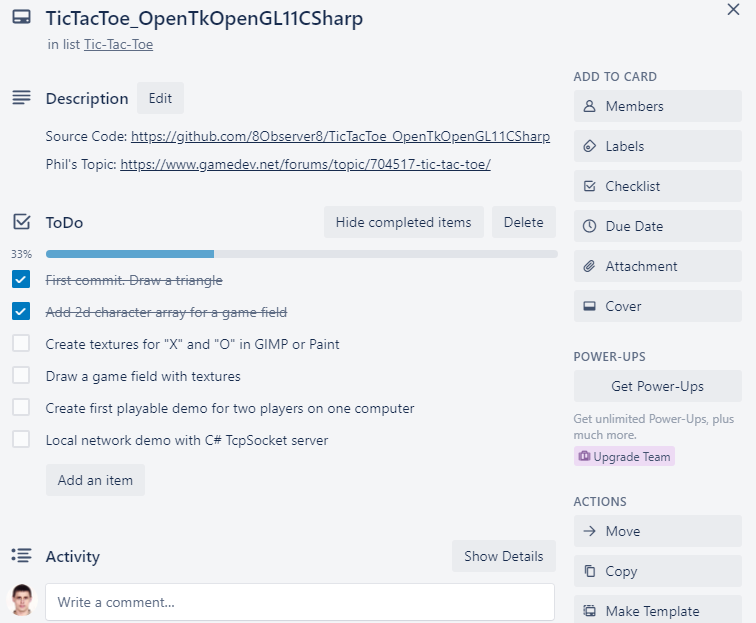
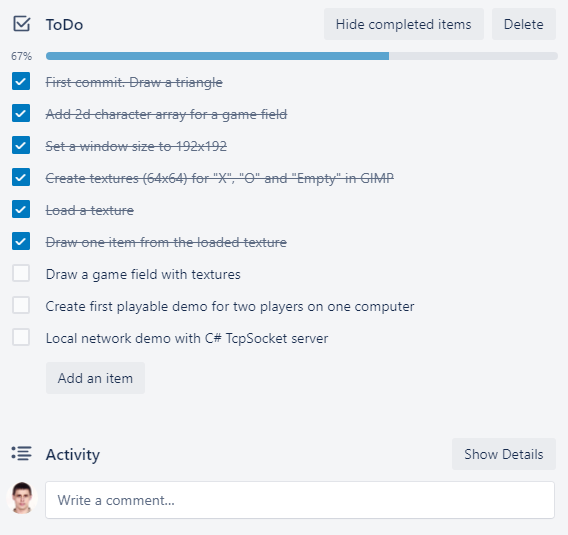
Draw a game field with textures from the tile map

diff --git a/TicTacToe/Window.cs b/TicTacToe/Window.cs
@@ -14,6 +14,13 @@ namespace TicTacToe
             { '0', ' ', ' ' }
         };
 
+        private enum GameObject
+        {
+            Empty, Cross, Zero
+        }
+
+        private float _tileSize = 64f;
+
         private bool _canDraw = false;
 
         // Called only once at the beginning
@@ -63,21 +70,83 @@ namespace TicTacToe
             // Set a triangle color
             //GL.Color3(0f, 1f, 0f);
 
-            GL.Begin(PrimitiveType.Triangles);
-            {
-                // Left top triangle
-                GL.TexCoord2(0f, 0f); GL.Vertex2(0f, 0f);
-                GL.TexCoord2(0f, 0.33f); GL.Vertex2(0f, 64f);
-                GL.TexCoord2(0.33f, 0f); GL.Vertex2(64f, 0f);
-                // Right bottom triangle
-                GL.TexCoord2(0f, 0.33f); GL.Vertex2(0f, 64f);
-                GL.TexCoord2(0.33f, 0.33f); GL.Vertex2(64f, 64f);
-                GL.TexCoord2(0.33f, 0f); GL.Vertex2(64f, 0f);
-            }
-            GL.End();
+            DrawGameField();
 
             // Swaps the front and back buffer
             SwapBuffers();
+        }
+
+        private void DrawGameField()
+        {
+            for (int row = 0; row < _gameField.GetLength(0); row++)
+            {
+                for (int col = 0; col < _gameField.GetLength(1); col++)
+                {
+                    if (_gameField[row, col] == 'x')
+                    {
+                        DrawGameObject(GameObject.Cross, col * _tileSize, row * _tileSize);
+                    }
+                    else if (_gameField[row, col] == ' ')
+                    {
+                        DrawGameObject(GameObject.Empty, col * _tileSize, row * _tileSize);
+                    }
+                    else if (_gameField[row, col] == '0')
+                    {
+                        DrawGameObject(GameObject.Zero, col * _tileSize, row * _tileSize);
+                    }
+                }
+            }
+        }
+
+        private void DrawGameObject(GameObject gameObject, float x, float y)
+        {
+            switch (gameObject)
+            {
+                case GameObject.Empty:
+                    GL.Begin(PrimitiveType.Triangles);
+                    {
+                        // Left top triangle
+                        GL.TexCoord2(0f, 0.66f); GL.Vertex2(x, y);
+                        GL.TexCoord2(0f, 1f); GL.Vertex2(x, y + _tileSize);
+                        GL.TexCoord2(0.33f, 0.66f); GL.Vertex2(x + _tileSize, y);
+                        // Right bottom triangle
+                        GL.TexCoord2(0f, 1f); GL.Vertex2(x, y + _tileSize);
+                        GL.TexCoord2(0.33f, 1f); GL.Vertex2(x + _tileSize, y + _tileSize);
+                        GL.TexCoord2(0.33f, 0.66f); GL.Vertex2(x + _tileSize, y);
+                    }
+                    GL.End();
+                    break;
+                case GameObject.Cross:
+                    GL.Begin(PrimitiveType.Triangles);
+                    {
+                        // Left top triangle
+                        GL.TexCoord2(0f, 0f); GL.Vertex2(x, y);
+                        GL.TexCoord2(0f, 0.33f); GL.Vertex2(x, y + _tileSize);
+                        GL.TexCoord2(0.33f, 0f); GL.Vertex2(x + _tileSize, y);
+                        // Right bottom triangle
+                        GL.TexCoord2(0f, 0.33f); GL.Vertex2(x, y + _tileSize);
+                        GL.TexCoord2(0.33f, 0.33f); GL.Vertex2(x + _tileSize, y + _tileSize);
+                        GL.TexCoord2(0.33f, 0f); GL.Vertex2(x + _tileSize, y);
+                    }
+                    GL.End();
+                    break;
+                case GameObject.Zero:
+                    GL.Begin(PrimitiveType.Triangles);
+                    {
+                        // Left top triangle
+                        GL.TexCoord2(0f, 0.33f); GL.Vertex2(x, y);
+                        GL.TexCoord2(0f, 0.66f); GL.Vertex2(x, y + _tileSize);
+                        GL.TexCoord2(0.33f, 0.33f); GL.Vertex2(x + _tileSize, y);
+                        // Right bottom triangle
+                        GL.TexCoord2(0f, 0.66f); GL.Vertex2(x, y + _tileSize);
+                        GL.TexCoord2(0.33f, 0.66f); GL.Vertex2(x + _tileSize, y + _tileSize);
+                        GL.TexCoord2(0.33f, 0.33f); GL.Vertex2(x + _tileSize, y);
+                    }
+                    GL.End();
+                    break;
+                default:
+                    break;
+            }
         }
 
         private void Setup2DGraphics(float width, float height)
